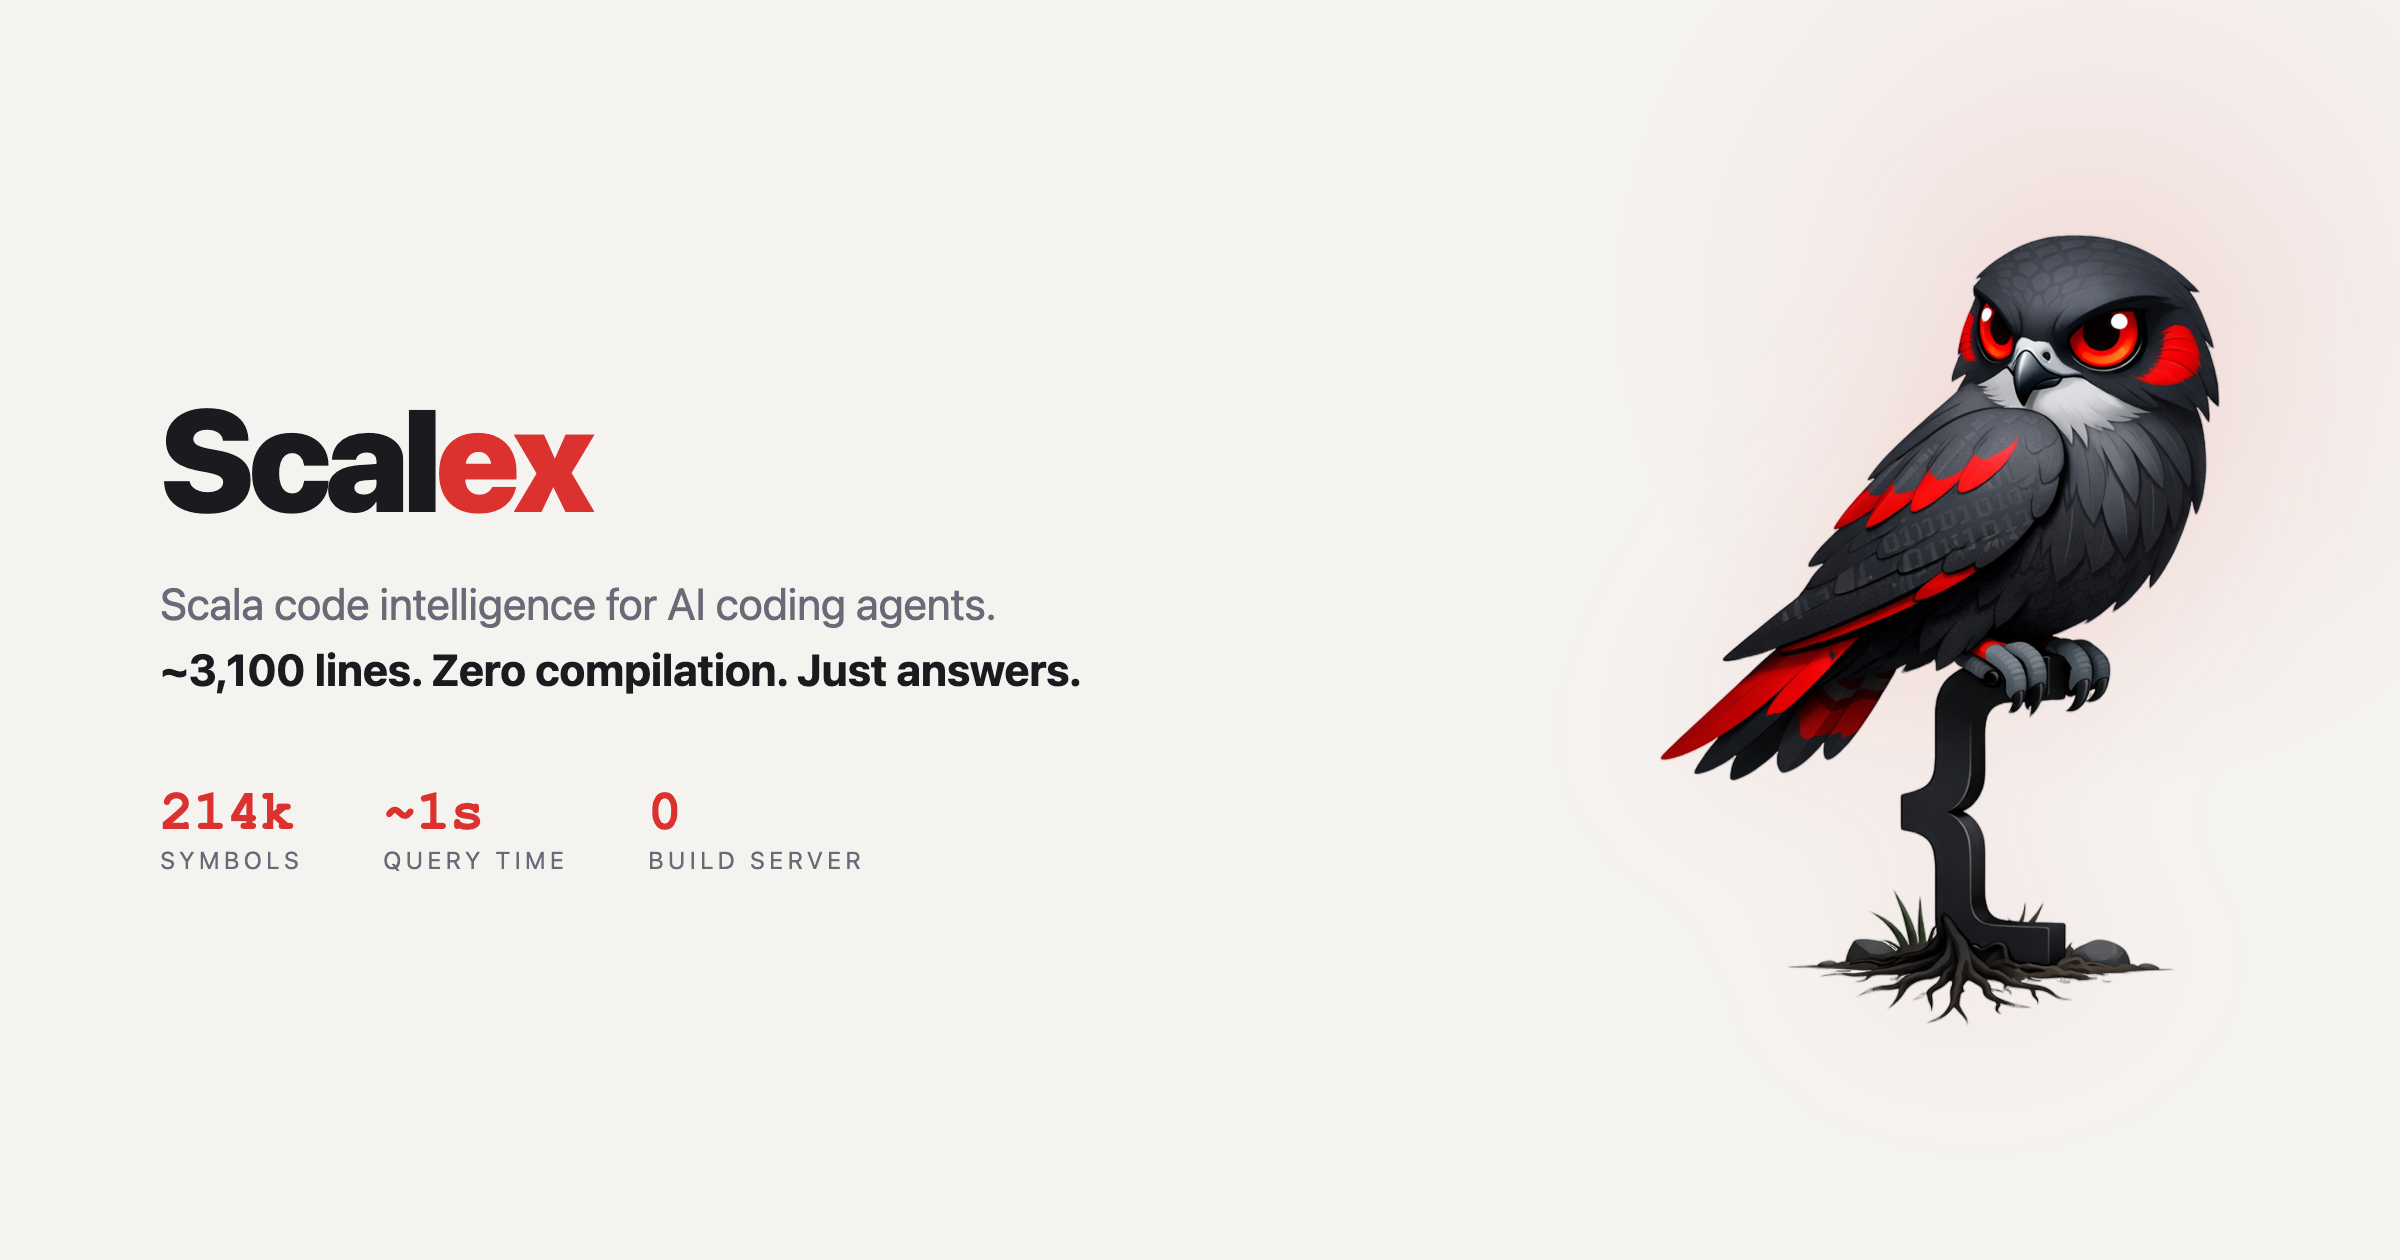
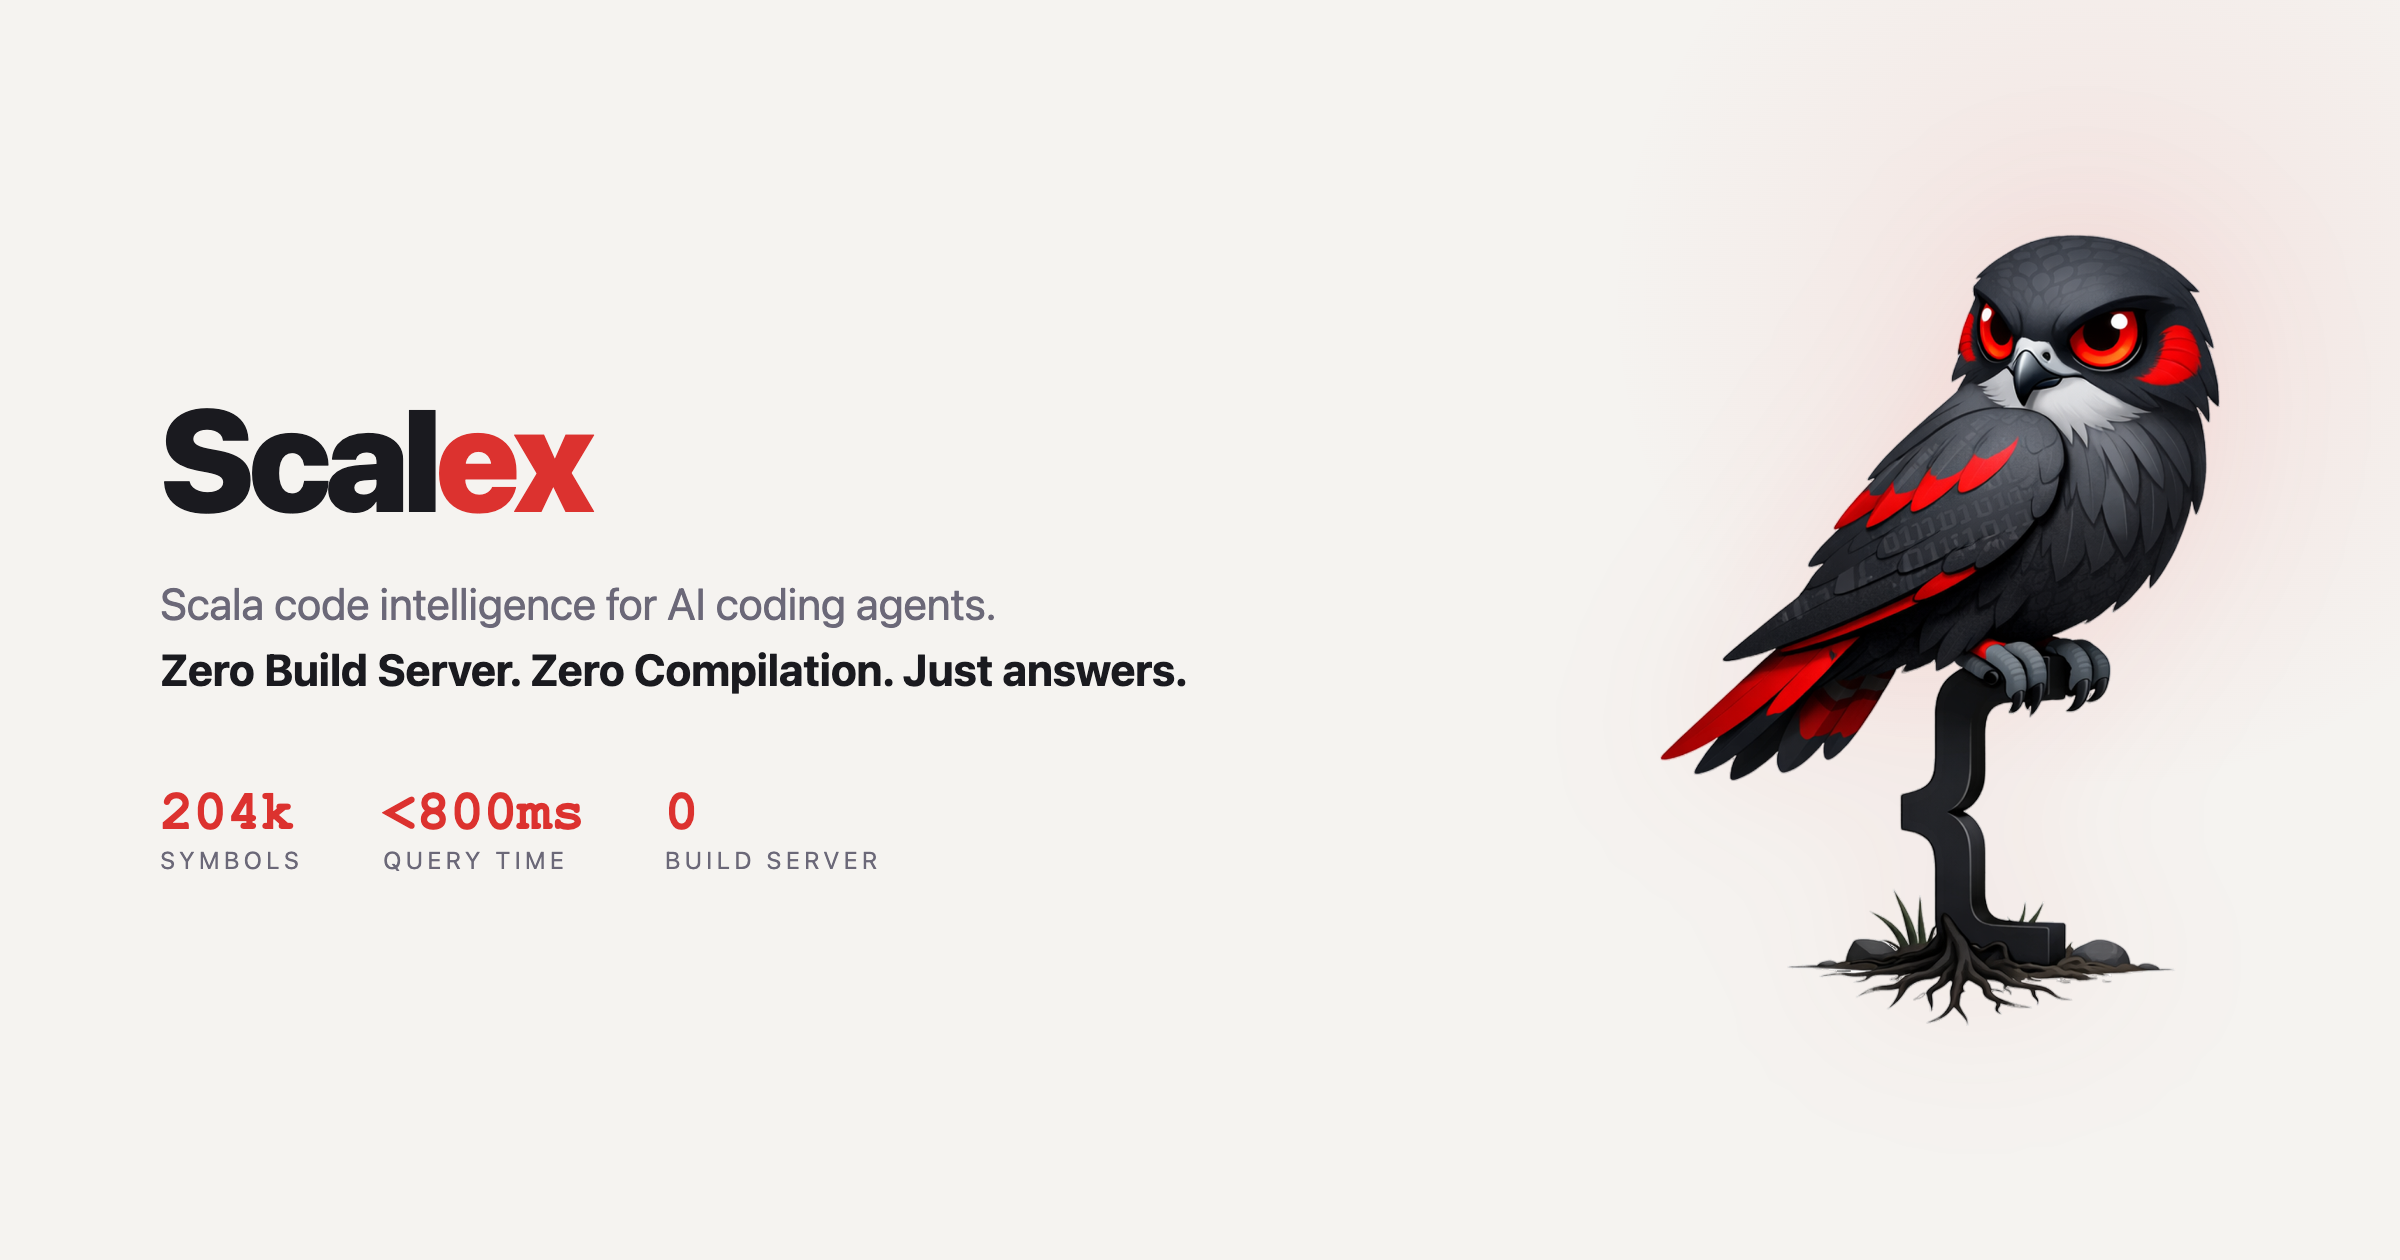
docs: update slogan, remove line counts, refresh benchmark numbers
Unify slogan to "Scala code intelligence for AI coding agents" across
all banners, README, and site. Replace line count with "Zero Build Server.
Zero Compilation. Just answers." Update stats to 204k symbols and <800ms
query time based on fresh benchmarks. Re-capture all banner PNGs.

diff --git a/site/index.html b/site/index.html
@@ -4,11 +4,11 @@
   <meta charset="UTF-8">
   <meta name="viewport" content="width=device-width, initial-scale=1.0">
   <title>Scalex — Scala Code Intelligence for AI Agents</title>
-  <meta name="description" content="~3,100 lines. Zero compilation. Zero build server. Search symbols, find definitions, find implementations, find references — all from source.">
+  <meta name="description" content="Zero Build Server. Zero Compilation. Search symbols, find definitions, find implementations, find references — all from source.">
 
   <!-- OpenGraph -->
   <meta property="og:title" content="Scalex — Scala Code Intelligence for AI Agents">
-  <meta property="og:description" content="~3,100 lines. Zero compilation. Zero build server. Just answers.">
+  <meta property="og:description" content="Zero Build Server. Zero Compilation. Just answers.">
   <meta property="og:image" content="https://nguyenyou.github.io/scalex/og-banner.png">
   <meta property="og:url" content="https://nguyenyou.github.io/scalex">
   <meta property="og:type" content="website">
@@ -16,7 +16,7 @@
   <!-- Twitter Card -->
   <meta name="twitter:card" content="summary_large_image">
   <meta name="twitter:title" content="Scalex — Scala Code Intelligence for AI Agents">
-  <meta name="twitter:description" content="~3,100 lines. Zero compilation. Zero build server. Just answers.">
+  <meta name="twitter:description" content="Zero Build Server. Zero Compilation. Just answers.">
   <meta name="twitter:image" content="https://nguyenyou.github.io/scalex/og-banner.png">
 
   <link rel="icon" type="image/png" sizes="32x32" href="favicon-32.png">
@@ -421,15 +421,15 @@
   <section class="hero">
     <img src="Kestrel.png" alt="Scalex Kestrel" class="mascot">
     <h1>Scal<span class="red">ex</span></h1>
-    <p class="tagline"><em>Grep knows text. Scalex knows Scala.</em><br><strong>~3,100 lines. Zero compilation. Zero build server. Just answers.</strong></p>
+    <p class="tagline"><em>Scala code intelligence for AI coding agents.</em><br><strong>Zero Build Server. Zero Compilation. Just answers.</strong></p>
 
     <div class="stats">
       <div class="stat">
-        <div class="stat-value">214k</div>
+        <div class="stat-value">204k</div>
         <div class="stat-label">Symbols Indexed</div>
       </div>
       <div class="stat">
-        <div class="stat-value">~1s</div>
+        <div class="stat-value"><800ms</div>
         <div class="stat-label">Warm Query</div>
       </div>
       <div class="stat">
@@ -548,7 +548,7 @@
       </div>
       <div class="cmd-card">
         <div class="cmd-name">scalex batch</div>
-        <div class="cmd-desc">Multiple queries, one index load. 5 queries in ~1s instead of ~5s.</div>
+        <div class="cmd-desc">Multiple queries, one index load. 5 queries in <800ms instead of ~5s.</div>
       </div>
       <div class="cmd-card">
         <div class="cmd-name">scalex index</div>

diff --git a/site/og-banner-light.html b/site/og-banner-light.html
@@ -80,14 +80,14 @@
 <body>
   <div class="left">
     <h1>Scal<span>ex</span></h1>
-    <p>Scala code intelligence for AI coding agents.<br><strong>~3,100 lines. Zero compilation. Just answers.</strong></p>
+    <p>Scala code intelligence for AI coding agents.<br><strong>Zero Build Server. Zero Compilation. Just answers.</strong></p>
     <div class="stats">
       <div>
-        <div class="stat-value">214k</div>
+        <div class="stat-value">204k</div>
         <div class="stat-label">Symbols</div>
       </div>
       <div>
-        <div class="stat-value">~1s</div>
+        <div class="stat-value"><800ms</div>
         <div class="stat-label">Query Time</div>
       </div>
       <div>

diff --git a/site/og-banner.html b/site/og-banner.html
@@ -80,14 +80,14 @@
 <body>
   <div class="left">
     <h1>Scal<span>ex</span></h1>
-    <p>Scala code intelligence for AI coding agents.<br><strong>~3,100 lines. Zero compilation. Just answers.</strong></p>
+    <p>Scala code intelligence for AI coding agents.<br><strong>Zero Build Server. Zero Compilation. Just answers.</strong></p>
     <div class="stats">
       <div>
-        <div class="stat-value">214k</div>
+        <div class="stat-value">204k</div>
         <div class="stat-label">Symbols</div>
       </div>
       <div>
-        <div class="stat-value">~1s</div>
+        <div class="stat-value"><800ms</div>
         <div class="stat-label">Query Time</div>
       </div>
       <div>

diff --git a/site/readme-banner-dark.html b/site/readme-banner-dark.html
@@ -80,14 +80,14 @@
 <body>
   <div class="left">
     <h1>Scal<span>ex</span></h1>
-    <p><em>Grep knows text. Scalex knows Scala.</em><br><strong>~3,100 lines. Zero compilation. Just answers.</strong></p>
+    <p>Scala code intelligence for AI coding agents.<br><strong>Zero Build Server. Zero Compilation. Just answers.</strong></p>
     <div class="stats">
       <div>
-        <div class="stat-value">214k</div>
+        <div class="stat-value">204k</div>
         <div class="stat-label">Symbols</div>
       </div>
       <div>
-        <div class="stat-value">~1s</div>
+        <div class="stat-value"><800ms</div>
         <div class="stat-label">Query Time</div>
       </div>
       <div>

diff --git a/site/readme-banner-light.html b/site/readme-banner-light.html
@@ -80,14 +80,14 @@
 <body>
   <div class="left">
     <h1>Scal<span>ex</span></h1>
-    <p><em>Grep knows text. Scalex knows Scala.</em><br><strong>~3,100 lines. Zero compilation. Just answers.</strong></p>
+    <p>Scala code intelligence for AI coding agents.<br><strong>Zero Build Server. Zero Compilation. Just answers.</strong></p>
     <div class="stats">
       <div>
-        <div class="stat-value">214k</div>
+        <div class="stat-value">204k</div>
         <div class="stat-label">Symbols</div>
       </div>
       <div>
-        <div class="stat-value">~1s</div>
+        <div class="stat-value"><800ms</div>
         <div class="stat-label">Query Time</div>
       </div>
       <div>

diff --git a/.claude/skills/capture-banners/SKILL.md b/.claude/skills/capture-banners/SKILL.md
@@ -1,6 +1,6 @@
 ---
 name: capture-banners
-description: Re-render Scalex banner and OG image PNGs from their HTML source files using Chrome DevTools MCP. Use this skill whenever banner HTML files are edited (slogan changes, line count updates, color tweaks, layout changes) and the corresponding PNGs need to be regenerated. Triggers on "capture banners", "update banner images", "re-render banners", "regenerate PNGs", or after any edit to files in site/*-banner*.html or site/og-banner*.html.
+description: Re-render Scalex banner and OG image PNGs from their HTML source files using Chrome DevTools MCP. Use this skill whenever banner HTML files are edited (slogan changes, color tweaks, layout changes) and the corresponding PNGs need to be regenerated. Triggers on "capture banners", "update banner images", "re-render banners", "regenerate PNGs", or after any edit to files in site/*-banner*.html or site/og-banner*.html.
 ---
 
 # Capture Banners

diff --git a/site/MASCOT.md b/site/MASCOT.md
@@ -24,7 +24,7 @@ A **small kestrel** (the smallest falcon) — fast, sharp-eyed, lightweight, hov
 
 ### Why a kestrel?
 
-- **Smallest falcon** — reflects our lightweight, minimal design (~3,100 lines of code across 8 source files)
+- **Smallest falcon** — reflects our lightweight, minimal design
 - **Incredible eyesight** — spots symbols from across 18k files, like a kestrel spots prey from 50 meters
 - **Hovers in place** — systematically scans an area before diving, like indexing before querying
 - **Fast dive** — instant results once it finds the target
